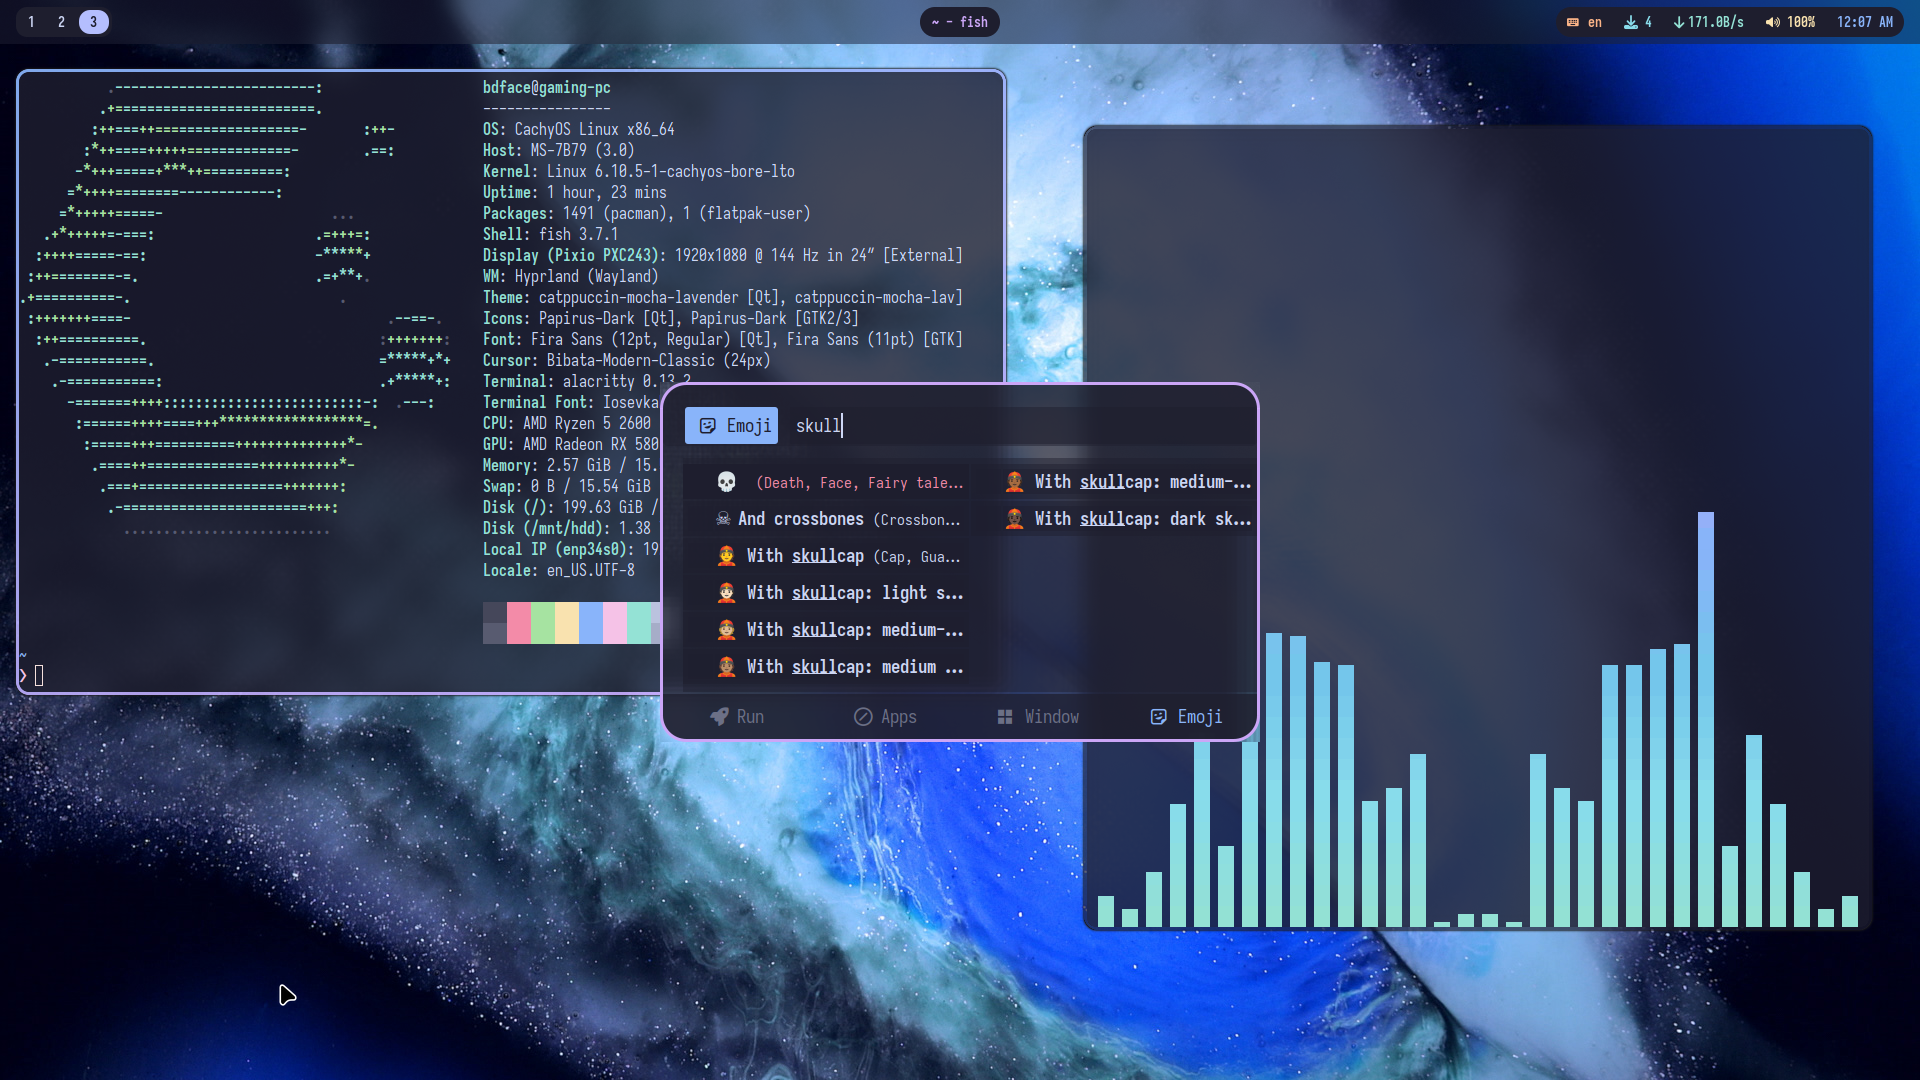
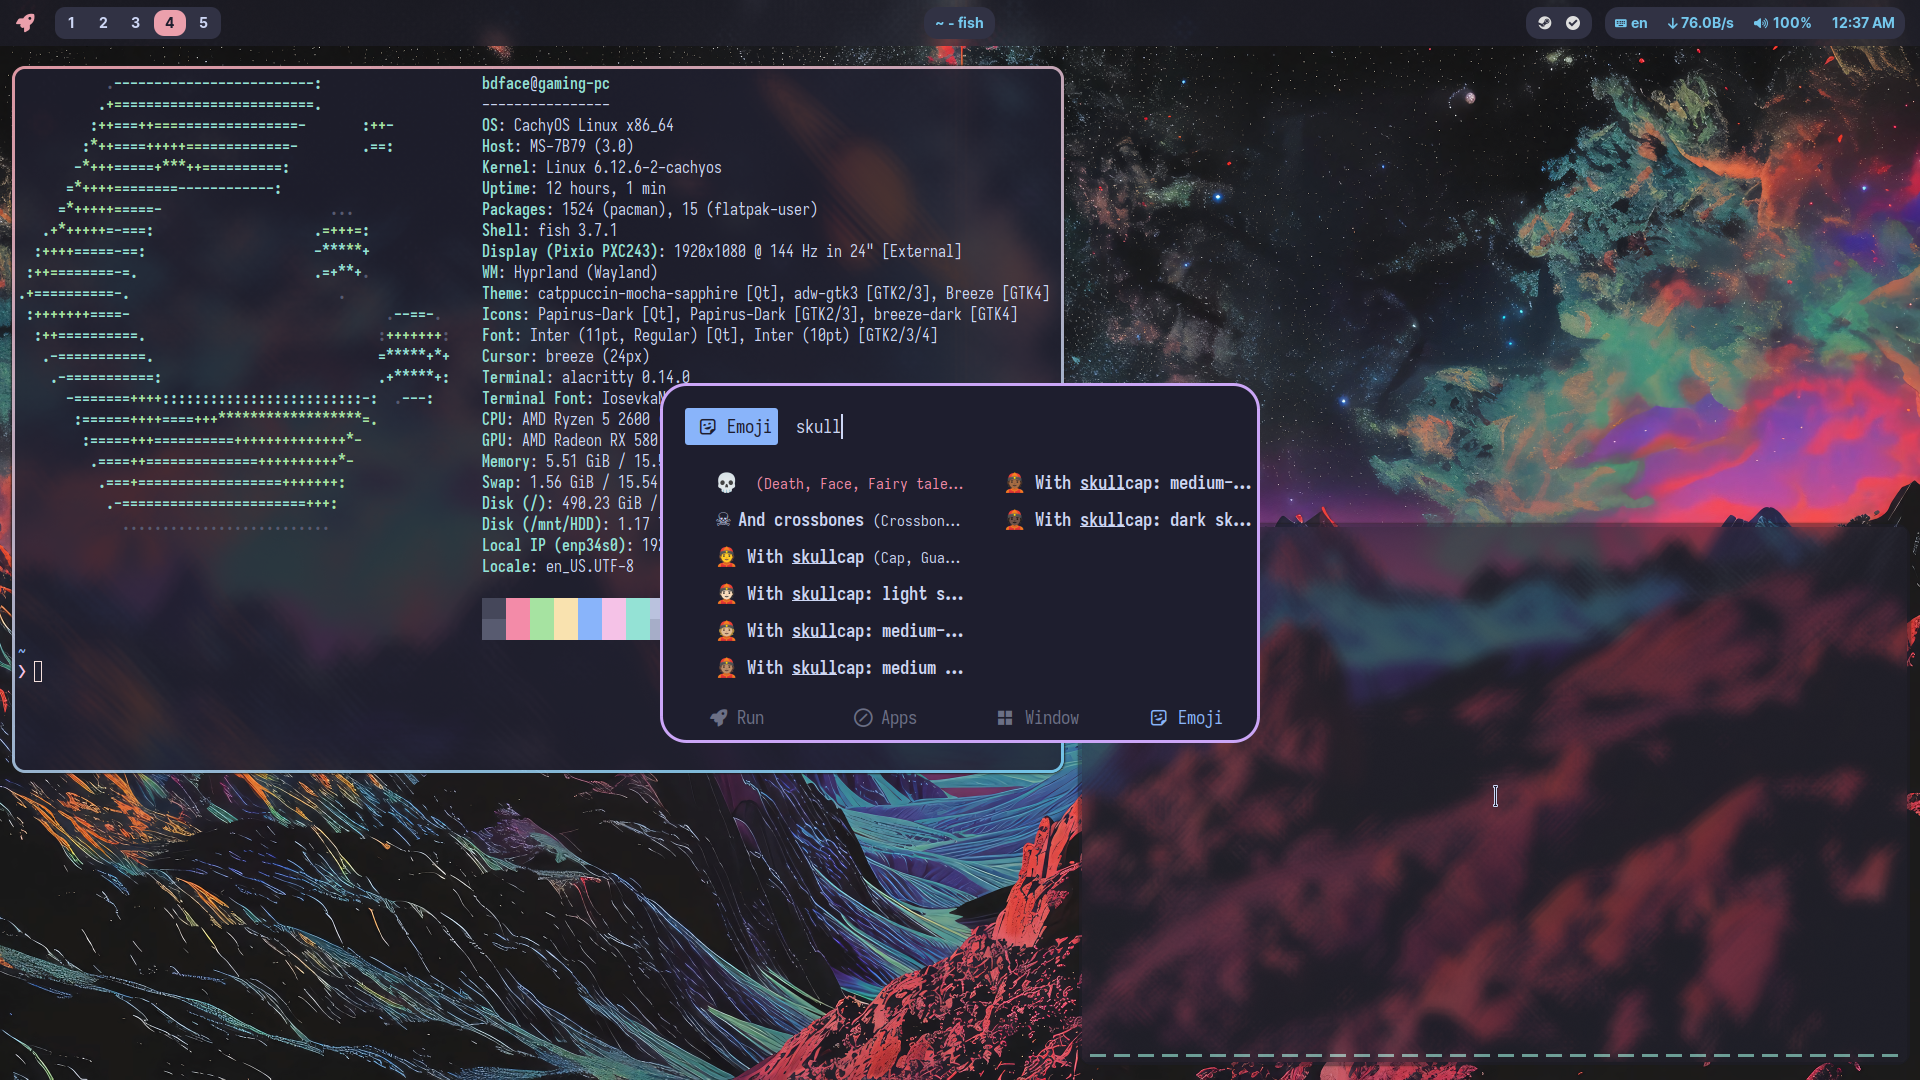
add new wallpaper, grimblast bind, update docs

diff --git a/README.md b/README.md
@@ -1,10 +1,13 @@
 # bdface's dotfiles
 
-some dotfile configurations i use for hyprland and a couple other programs i suppose
+Some dotfile configurations i use for hyprland and a couple other programs that I use.
 
-just copy the dots to .config and .local respectively, and make sure these programs are installed on your system!
+These are only tested on arch-based systems, use with other distros (and in general) at your own risk. I am not consistantly maintaining these.
 
-`cp -r config/* ~/.config`
+Just copy the dots to `.config` and `.local` in your home directory respectively, and make sure these programs are installed on your system!
+
+`cp -r config/* ~/.config`<br>
+`cp -r local/* ~/.local/`
 
 🖥️ wm: [hyprland](https://hyprland.org)<br>
 status bar: [waybar](https://github.com/Alexays/Waybar)<br>
@@ -12,12 +15,12 @@ status bar: [waybar](https://github.com/Alexays/Waybar)<br>
 🔊 audio visualizer: [cava](https://github.com/karlstav/cava)<br>
 🔒 lockscreen: [hyprlock](https://github.com/hyprwm/hyprlock/)<br>
 🚀 launcher: [rofi (lbonn wayland fork)](https://github.com/lbonn/rofi) + [rofi-emoji](https://github.com/Mange/rofi-emoji)<br>
-📷 screenshot: [grim](https://github.com/emersion/grim) + [slurp](https://github.com/emersion/slurp) + [swappy](https://github.com/jtheoof/swappy)<br>
-💬 notifications: [mako](https://github.com/emersion/mako)<br>
-👋 logout screen: [wlogout](https://github.com/ArtsyMacaw/wlogout)<br>
+📷 screenshot: [grimblast](https://github.com/hyprwm/contrib)<br>
+💬 notifications: [dunst](https://github.com/dunst-project/dunst)<br>
 
 
-###### Desktop [(wallpaper)](https://wallhaven.cc/w/83ox2k)
+
+###### Desktop [(wallpaper)](https://wallhaven.cc/w/yxdrex)
 ![Hyprland Desktop with waybar](images/desktop.png)
 
 